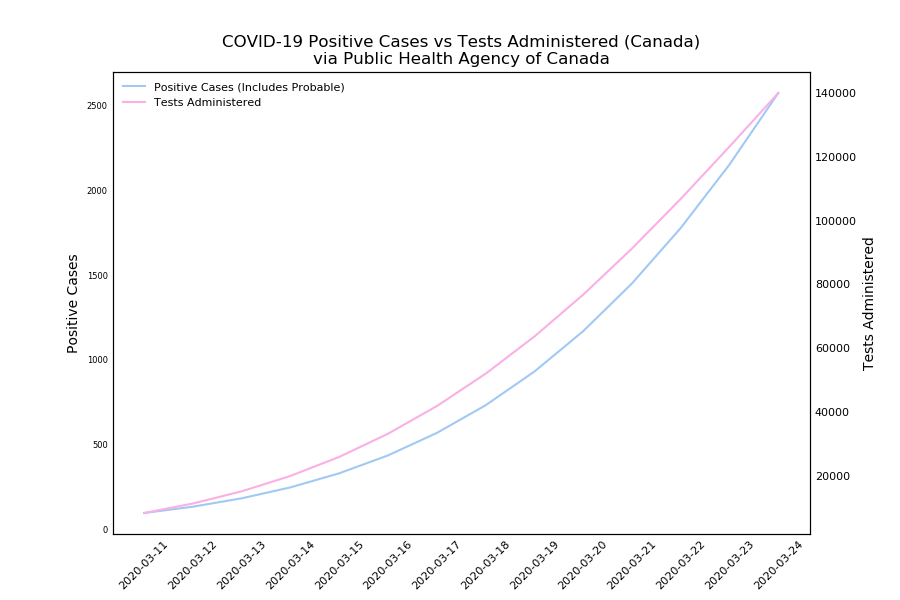
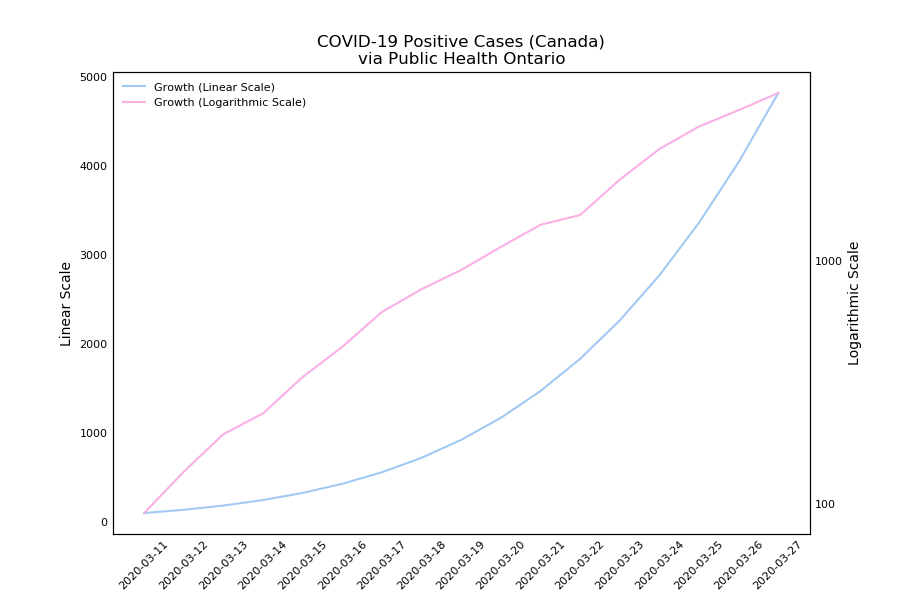
Add files via upload

diff --git a/main.py b/main.py
@@ -6,6 +6,7 @@ import matplotlib.dates as mdates
 from scipy.ndimage.filters import gaussian_filter1d
 from matplotlib.ticker import PercentFormatter
 from scipy.interpolate import interp1d
+import matplotlib.ticker as mticker
 
 plt.rcParams["figure.figsize"] = (9,6)
 pal = sns.color_palette("pastel", 10)
@@ -29,7 +30,7 @@ def import_data():
     plt.xticks(provincial.date, rotation=45, fontsize=8)
     plt.yticks(fontsize=6)
     plt.tick_params(axis=u'both', which=u'both', length=0)
-    plt.savefig('predicted_tests_canada.png')
+    # plt.savefig('predicted_tests_canada.png')
     plt.clf()
     plt.cla()
 
@@ -50,7 +51,7 @@ def import_data():
     plt.yticks(fontsize=6)
     plt.tick_params(axis=u'both', which=u'both', length=0)
     plt.gca().yaxis.set_major_formatter(PercentFormatter(1))
-    plt.savefig('predicted_ratio_pending.png')
+    # plt.savefig('predicted_ratio_pending.png')
     plt.clf()
     plt.cla()
 
@@ -81,36 +82,38 @@ def plot_canada(df):
     plt.legend((p1[0], p2[0], p3[0], p4[0]), ('Positive (Actual)', 'Pending (Estimated)', 'Negative (Estimated)', 'Positive Test Rate (Includes Probable)'), fontsize=8, frameon=False, loc=2)
     plt2.plot([], [])
 
-    plt.savefig('all_cases_canada.png')
+    plt.savefig('cumulative_cases_canada.png')
     plt.clf()
     plt.cla()
     return
 
 
 def plot_canada2(df):
-    width = 0.35  # the width of the bars: can also be len(x) sequence
-
     x = mdates.date2num(df.date)
     z = np.polyfit(x, np.log(df.positive_cases), 2)
     f = np.poly1d(z)
-    p1 = plt.plot(df.date, np.exp(f(mdates.date2num(df.date))), color=pal[0])
-    plt.ylabel('Positive Cases', fontsize=10)
-    plt.title('COVID-19 Positive Cases vs Tests Administered (Canada)\nvia Public Health Agency of Canada', fontsize=12)
+    p1 = plt.plot(df.date, np.exp(f(x)), color=pal[0])
+    plt.ylabel('Linear Scale', fontsize=10)
+    plt.title('COVID-19 Positive Cases (Canada)\nvia Public Health Ontario', fontsize=12)
     plt.xticks(df.date, rotation=45, fontsize=8)
-    plt.yticks(fontsize=6)
-    plt.tick_params(axis=u'both', which=u'both',length=0)
+    plt.yticks(fontsize=8)
+    plt.tick_params(axis=u'both', which=u'both', length=0)
 
     plt2 = plt.twinx()
-    x = mdates.date2num(df.date)
-    z = np.polyfit(x, np.log(df.tests), 2)
-    f = np.poly1d(z)
-    p2 = plt2.plot(df.date, np.exp(f(mdates.date2num(df.date))), color=pal[6])
-    plt2.set_ylabel('Tests Administered', fontsize=10)
+    # x = mdates.date2num(df.date)
+    # z = np.polyfit(x, df.positive, 2)
+    # f = np.poly1d(z)
+    p2 = plt2.plot(df.date, df.positive_cases, color=pal[6])
+    plt2.set_ylabel('Logarithmic Scale', fontsize=10)
     plt2.tick_params(axis=u'both', which=u'both', length=0)
-    plt2.set_yticklabels(df.tests.astype(int), fontsize=8)
     plt2.set_xticks(df.date)
-    plt.legend((p1[0], p2[0]), ('Positive Cases (Includes Probable)', 'Tests Administered'), fontsize=8, frameon=False)
-    plt2.set_yscale('linear')
+    plt2.set_yticklabels(df.positive_cases.astype(int), fontsize=8)
+    plt2.set_yscale('log')
+    plt2.yaxis.set_major_formatter(mticker.ScalarFormatter())
+    plt2.yaxis.get_major_formatter().set_scientific(False)
+    plt2.yaxis.get_major_formatter().set_useOffset(False)
+
+    plt.legend((p1[0], p2[0]), ('Growth (Linear Scale)', 'Growth (Logarithmic Scale)'), fontsize=8, frameon=False)
     plt2.plot([], [])
 
     plt.savefig('trends_canada.png')
@@ -152,7 +155,7 @@ def plot_provincial(df):
     plt.legend((p1[0], p2[0], p3[0], p4[0], p5[0], p6[0], p7[0], p8[0], p9[0], p10[0]), ('Ontario', 'Quebec', 'BC', 'Manitoba', 'Saskatchewan', 'Alberta', 'Maritimes', 'Territories', 'Repatriated', 'Death Rate'), loc=2, fontsize=6, frameon=False)
     plt2.plot([], [])
 
-    plt.savefig('positive_cases_by_province_cumulative.png')
+    plt.savefig('cumulative_cases_by_province.png')
     plt.clf()
     plt.cla()
     return
@@ -179,8 +182,9 @@ def plot_provincial2(df):
     plt.tick_params(axis=u'both', which=u'both', length=0)
 
     plt2 = plt.twinx()
-    x = mdates.date2num(df.date)
-    f = interp1d(x, df.Deaths / (df.Ontario + df.Quebec + df.BC + df.Manitoba + df.Saskatchewan + df.Alberta + df.Maritimes + df.Territories + df.Repatriated), 'cubic')
+    df2 = df.drop(df.index[0])
+    x = mdates.date2num(df2.date)
+    f = interp1d(x, df2.Deaths_Delta / (df2.Ontario_delta + df2.Quebec_delta + df2.BC_delta + df2.Manitoba_delta + df2.Saskatchewan_delta + df2.Alberta_delta + df2.Maritimes_delta + df2.Territories_delta), 'cubic')
     x = np.linspace(x.min(), x.max(), num=300)
     p10 = plt2.plot(x, f(x), color=pal[3], marker='', linewidth=2)
     plt2.set_ylabel('Death Rate', fontsize=10)
@@ -190,8 +194,8 @@ def plot_provincial2(df):
     plt2.set_xticks(df.date)
     plt.legend((p1[0], p2[0], p3[0], p4[0], p5[0], p6[0], p7[0], p8[0], p9[0], p10[0]), ('Ontario', 'Quebec', 'BC', 'Manitoba', 'Saskatchewan', 'Alberta', 'Maritimes', 'Territories', 'Repatriated', 'Death Rate'), loc=2, fontsize=6, frameon=False)
     plt2.plot([], [])
-
-    plt.savefig('positive_cases_by_province_daily.png')
+    # plt.show()
+    plt.savefig('daily_cases_by_province.png')
     plt.clf()
     plt.cla()
     return
@@ -223,7 +227,7 @@ def plot_ontario(df):
     plt.legend((p1[0], p2[0], p3[0], p4[0], p5[0], p6[0]), ('Positive', 'Pending', 'Resolved', 'Negative', 'Deceased', 'Positive Test Rate (Excluding Pending Results)'), fontsize=8, frameon=False, loc=2)
     plt2.plot([], [])
 
-    plt.savefig('all_cases_ontario_cumulative.png')
+    plt.savefig('cumulative_cases_ontario.png')
     plt.clf()
     plt.cla()
     return
@@ -237,7 +241,7 @@ def plot_ontario3(df):
     p4 = plt.bar(df.date, df.delta_negative, width, bottom=df.delta_positive + df.delta_resolved, color=pal[2])
     p5 = plt.bar(df.date, df.delta_deceased, width, bottom=df.delta_positive + df.delta_resolved + df.delta_negative, color=pal[7])
 
-    plt.ylabel('Test Results Received', fontsize=10)
+    plt.ylabel('Test Results Confirmed', fontsize=10)
     plt.title('COVID-19 Test Results (Ontario - Daily)\nvia Public Health Ontario', fontsize=12)
     plt.xticks(df.date, rotation=45, fontsize=8)
     plt.yticks(fontsize=6)
@@ -250,7 +254,7 @@ def plot_ontario3(df):
     # x = np.linspace(x.min(), x.max(), num=300)
     ysmoothed = gaussian_filter1d(df2.delta_ratio, sigma=2)
     p6 = plt2.plot(df2.date, ysmoothed, color=pal[3], marker='', linewidth=2)
-    plt2.set_ylabel('Ratio of Positive Results', fontsize=10)
+    plt2.set_ylabel('% of Test Results Returning Positive', fontsize=10)
     plt2.tick_params(axis=u'both', which=u'both', length=0)
     plt2.set_ylim(0,0.1)
     plt2.set_yticklabels(['{:,.2%}'.format(x) for x in plt2.get_yticks()], fontsize=8)
@@ -259,36 +263,39 @@ def plot_ontario3(df):
     plt2.plot([], [])
 
     # plt.show()
-    plt.savefig('all_cases_ontario_daily.png')
+    plt.savefig('daily_cases_ontario.png')
     plt.clf()
     plt.cla()
     return
 
 
 def plot_ontario2(df):
-    width = 0.35  # the width of the bars: can also be len(x) sequence
 
     x = mdates.date2num(df.date)
     z = np.polyfit(x, np.log(df.positive), 2)
     f = np.poly1d(z)
-    p1 = plt.plot(df.date, np.exp(f(mdates.date2num(df.date))), color=pal[0])
-    plt.ylabel('Positive Cases', fontsize=10)
-    plt.title('COVID-19 Positive Cases vs Tests Administered (Ontario)\nvia Public Health Ontario', fontsize=12)
+    p1 = plt.plot(df.date, np.exp(f(x)), color=pal[0])
+    plt.ylabel('Linear Scale', fontsize=10)
+    plt.title('COVID-19 Positive Cases (Ontario)\nvia Public Health Ontario', fontsize=12)
     plt.xticks(df.date, rotation=45, fontsize=8)
-    plt.yticks(fontsize=6)
+    plt.yticks(fontsize=8)
     plt.tick_params(axis=u'both', which=u'both',length=0)
 
     plt2 = plt.twinx()
-    x = mdates.date2num(df.date)
-    z = np.polyfit(x, np.log(df.positive + df.negative + df.pending + df.deceased + df.resolved), 2)
-    f = np.poly1d(z)
-    p2 = plt2.plot(df.date, np.exp(f(mdates.date2num(df.date))), color=pal[6])
-    plt2.set_ylabel('Tests Administered', fontsize=10)
+    # x = mdates.date2num(df.date)
+    # z = np.polyfit(x, df.positive, 2)
+    # f = np.poly1d(z)
+    p2 = plt2.plot(df.date, df.positive, color=pal[6])
+    plt2.set_ylabel('Logarithmic Scale', fontsize=10)
     plt2.tick_params(axis=u'both', which=u'both', length=0)
-    plt2.set_yticklabels(np.exp(f(mdates.date2num(df.date))).astype(int), fontsize=8)
     plt2.set_xticks(df.date)
-    plt2.set_yscale('linear')
-    plt.legend((p1[0], p2[0]), ('Positive Cases', 'Tests Administered'), fontsize=8, frameon=False)
+    plt2.set_yticklabels(df.positive.astype(int), fontsize=8)
+    plt2.set_yscale('log')
+    plt2.yaxis.set_major_formatter(mticker.ScalarFormatter())
+    plt2.yaxis.get_major_formatter().set_scientific(False)
+    plt2.yaxis.get_major_formatter().set_useOffset(False)
+
+    plt.legend((p1[0], p2[0]), ('Growth (Linear Scale)', 'Growth (Logarithmic Scale)'), fontsize=8, frameon=False)
     plt2.plot([], [])
 
     plt.savefig('trends_ontario.png')
@@ -297,18 +304,13 @@ def plot_ontario2(df):
     return
 
 
-def total_infected(fatality_rate=0.06, hospitalization=0.2, icu=0.05, extreme=0.025, time_to_death=17.3, doubling_time=0.062):
-
-    return
-
-
 if __name__ == '__main__':
     dfs = import_data()
-    plot_canada(dfs[0])
-    plot_canada2(dfs[0])
-    plot_provincial(dfs[0])
-    plot_provincial2(dfs[0])
-    plot_ontario(dfs[1])
+    # plot_canada(dfs[0])
+    # plot_provincial(dfs[0])
+    # plot_provincial2(dfs[0])
+    # plot_ontario(dfs[1])
+    # plot_ontario3(dfs[1])
     plot_ontario2(dfs[1])
-    plot_ontario3(dfs[1])
+    plot_canada2(dfs[0])
 
